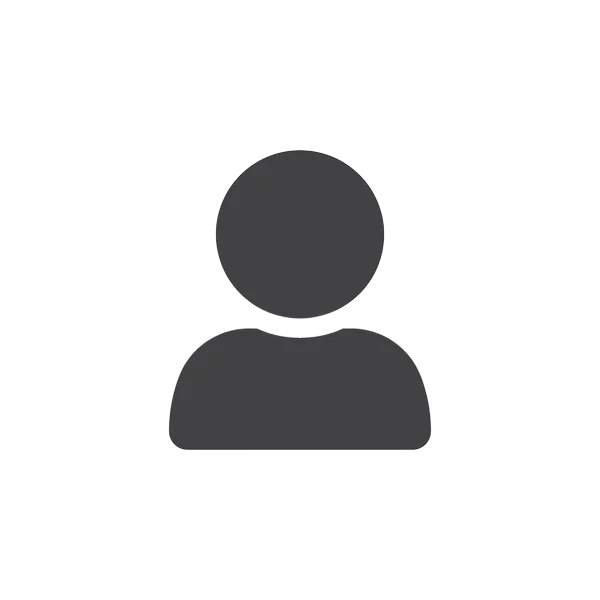
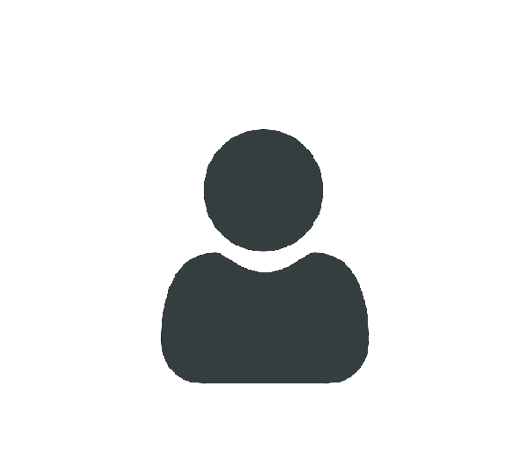
Add files via upload

diff --git a/locacao.css b/locacao.css
@@ -86,7 +86,58 @@ button:hover {
     }
 #edit{
     background-color: #ffdaab;
+    background-image: url("add.png");
+    background-position:left;
+    position: left;
+    padding-top: 2px;
+    padding-left: 30px;
+    background-size: 40px;
+    background-repeat: no-repeat;
 }
 #logout{
     margin-top: 58%;
+    background-image: url("voltar.png");
+    background-position:left;
+    position: left;
+    padding-top: 2px;
+    padding-left: 30px;
+    background-size: 40px;
+    background-repeat: no-repeat;
+}
+#useradd{
+    background-image: url("usuariob.png");
+    background-position:left;
+    position: left;
+    padding-top: 2px;
+    padding-left: 30px;
+    background-size: 40px;
+    background-repeat: no-repeat;
+}
+#pesquisa{
+    background-image: url("pesquisa.png");
+    background-position:left;
+    position: left;
+    padding-top: 2px;
+    padding-left: 30px;
+    background-size: 40px;
+    background-repeat: no-repeat;
+}
+#modify{
+    background-image: url("edit.png");
+    background-position:left;
+    position: left;
+    padding-top: 2px;
+    padding-left: 30px;
+    background-size: 40px;
+    background-repeat: no-repeat;
+}
+#logoutp{
+    margin-top: 140%;
+    background-image: url("voltar.png");
+    background-position:left;
+    position: left;
+    padding-top: 2px;
+    padding-left: 30px;
+    background-size: 40px;
+    background-repeat: no-repeat;
 }

diff --git a/locacao.php b/locacao.php
@@ -20,11 +20,11 @@
   <div class="navigation">
   <a href="tb_professores.php"> <button id="edit">Realizar locação</button> </a>
  
-   <a href="new_user.php"> <button>Adicionar Usuários </button> </a>
+   <a href="new_user.php"> <button id="useradd">Adicionar Usuários </button> </a>
   
-   <a href="tb_equipamento.php"> <button>Modificar Equipamento</button> </a>
+   <a href="tb_equipamento.php"> <button id="modify">Modificar Equipamento</button> </a>
   
-   <a href="consulta_equipamento.php"> <button>Consultar Equipamento Por Nome</button> </a>
+   <a href="consulta_equipamento.php"> <button id="pesquisa">Consultar Equipamento Por Nome</button> </a>
    
    <a href="logout.php"> <button id="logout"> Logout </button> </a>
    

diff --git a/locacaoprof.php b/locacaoprof.php
@@ -18,10 +18,10 @@
 <div class="container">
     <div class="box3">
   <div class="navigation">
-  <a href="logout.php"> <button>Logout </button></a>
-  <br><br>
-  <a href="consulta_accprof.php"> <button>Consultar Equipamento Por Nome</button> </a>
-  <br><br>
+  
+  <a href="consulta_accprof.php"> <button id="pesquisa">Consultar Equipamento Por Nome</button> </a>
+
+  <a href="logout.php"> <button id="logoutp">Logout </button></a>
   </div>
   <?php
   include "conexao.php";
